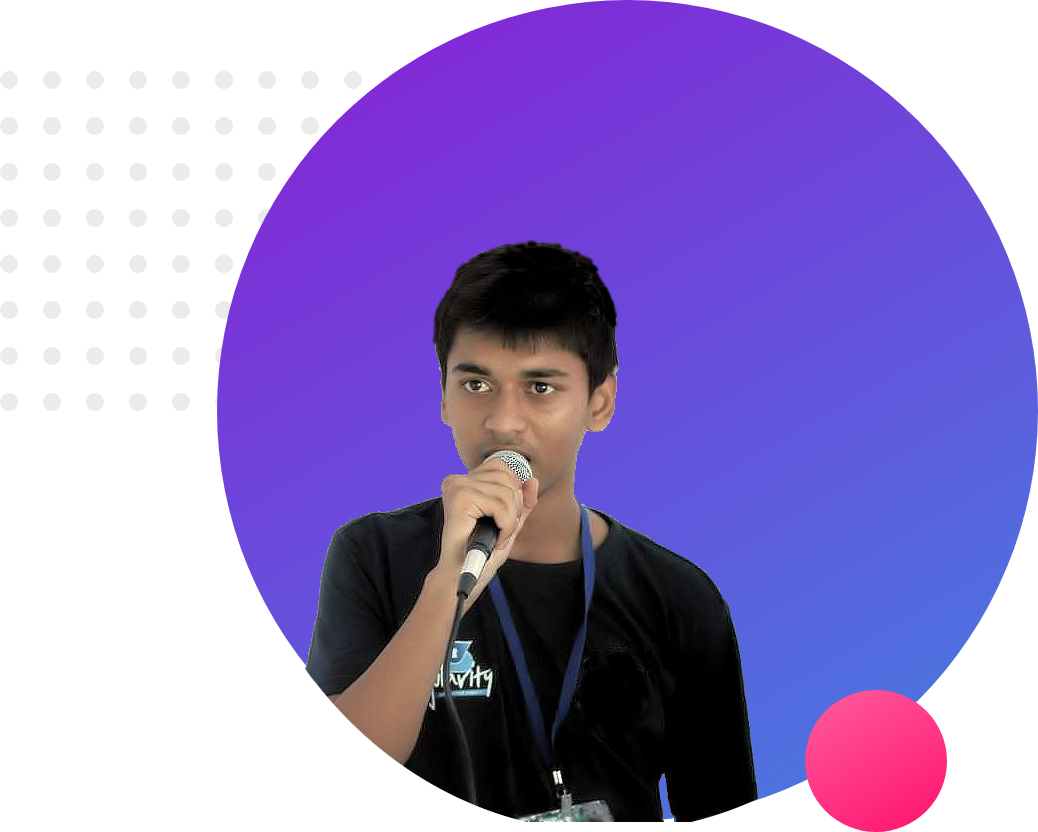
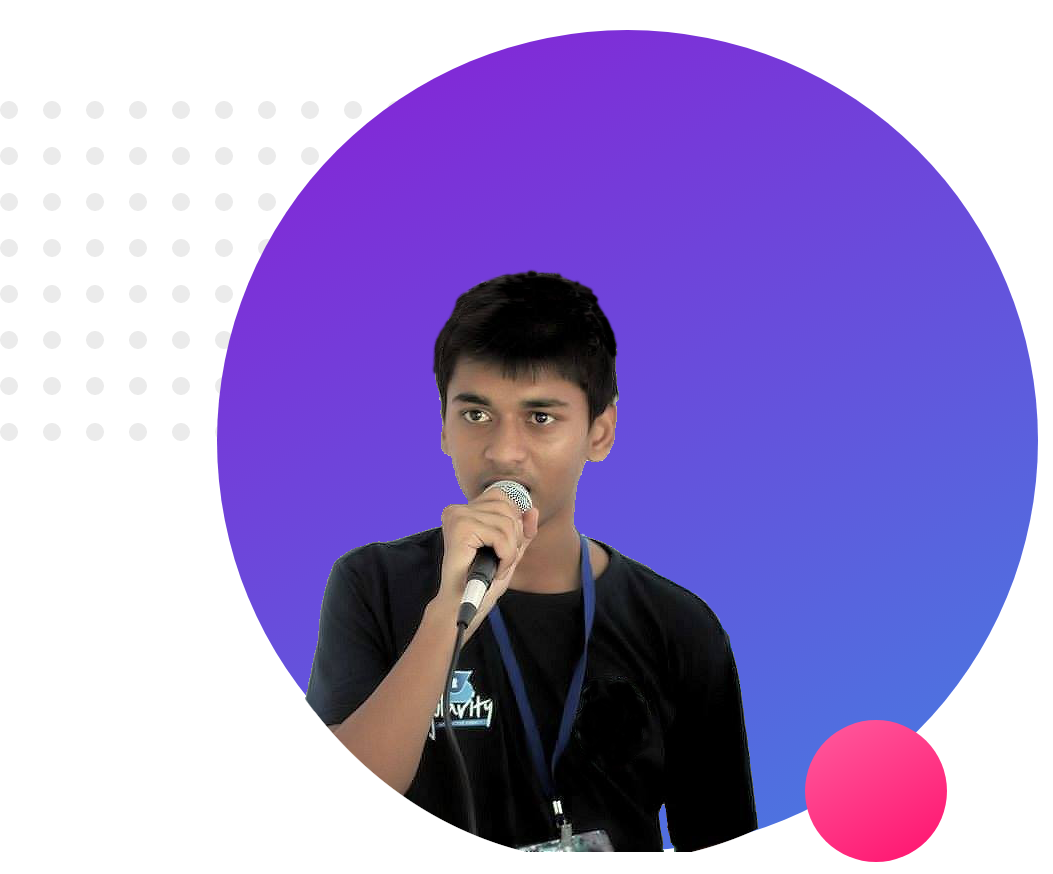
new

diff --git a/index.html b/index.html
@@ -15,7 +15,7 @@
             <h1>Welcome To</h1>
             <h1><span class="name_highlight">Shamim's</span> World</h1>
 
-            <h2>World class Web Dev</h2>
+            <h3>World class Web Dev</h3>
             <p>
                 Lorem ipsum dolor sit amet consectetur adipisicing elit. Eaque, voluptatibus. Quis possimus qui tenetur
                 dolorum quaerat temporibus praesentium. Et, quidem quas! Neque voluptates consequuntur animi!
@@ -35,20 +35,28 @@
     <section class="bottom-banner">
 
         <div class="half-width">
-            <img src="images/profile1.png" alt="Profile">
+            <img src="images/profile3.png" alt="Profile">
         </div>
 
 
         <div class="half-width">
-            <h2>Dream Big</h2>
+            <h3>Dream Big</h3>
             <p>
                 Lorem ipsum dolor sit amet consectetur adipisicing elit. Eaque, voluptatibus. Quis possimus qui tenetur
                 dolorum quaerat temporibus praesentium. Et, quidem quas! Neque voluptates consequuntur animi!
             </p>
             <a href="https://fb.me/notnns" target="_blank" class="resume-button">My Resume</a>
+        </div>
+    </section>
+
+    <section>
+        <div class="half-width">
 
         </div>
 
+        <div class="half-width">
+
+        </div>
 
     </section>
 

diff --git a/style/stylesheet.css b/style/stylesheet.css
@@ -1,12 +1,24 @@
 body{
     margin: 0;
     font-family: 'Oswald', sans-serif;
-
 }
+
 
 h1{
     font-size: 50px;
     color: blueviolet;
+}
+
+
+h2{
+    font-size: 40px;
+    color: greenyellow;
+}
+
+
+h3{
+    font-size: 30px;
+    color: palevioletred;
 }
 
 .name_highlight{
@@ -20,14 +32,16 @@ h1{
     padding-left: 2%;
 }
 
+
 .half-width img{
-    width: 100%;
+    width: 90%;
 }
+
 
 .top-banner{
     background-image: url("../images/top-banner.png");
     background-repeat: no-repeat;
-    background-position: left;
+    
 }
 
 section{
@@ -55,4 +69,8 @@ section{
     background-position: right;
     background-image: url("../images/dream-bg.png");
     background-repeat: no-repeat;
+}
+
+.experiences{
+    
 }
